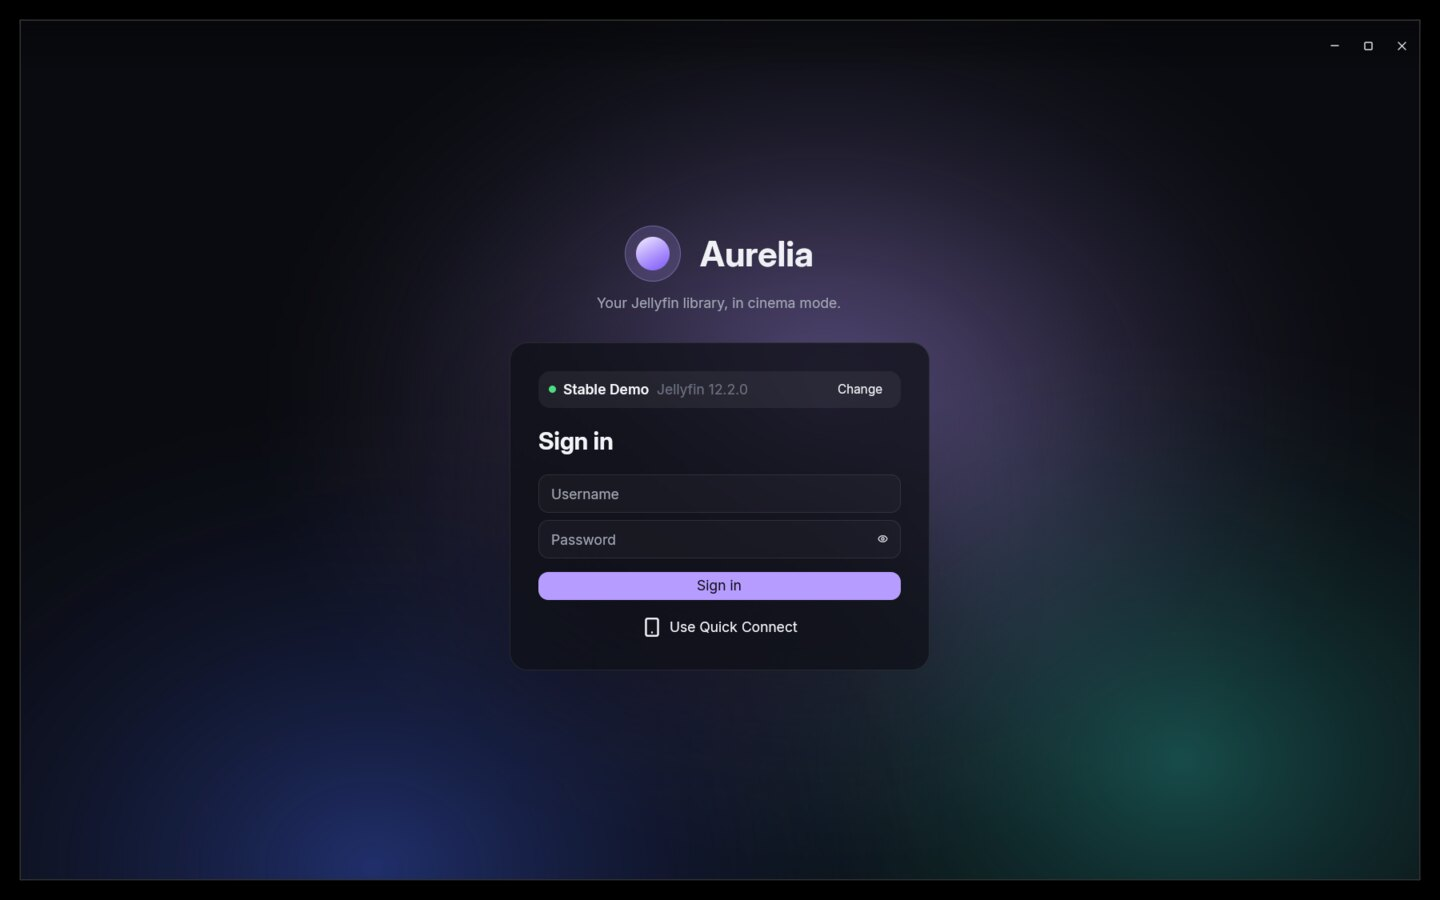
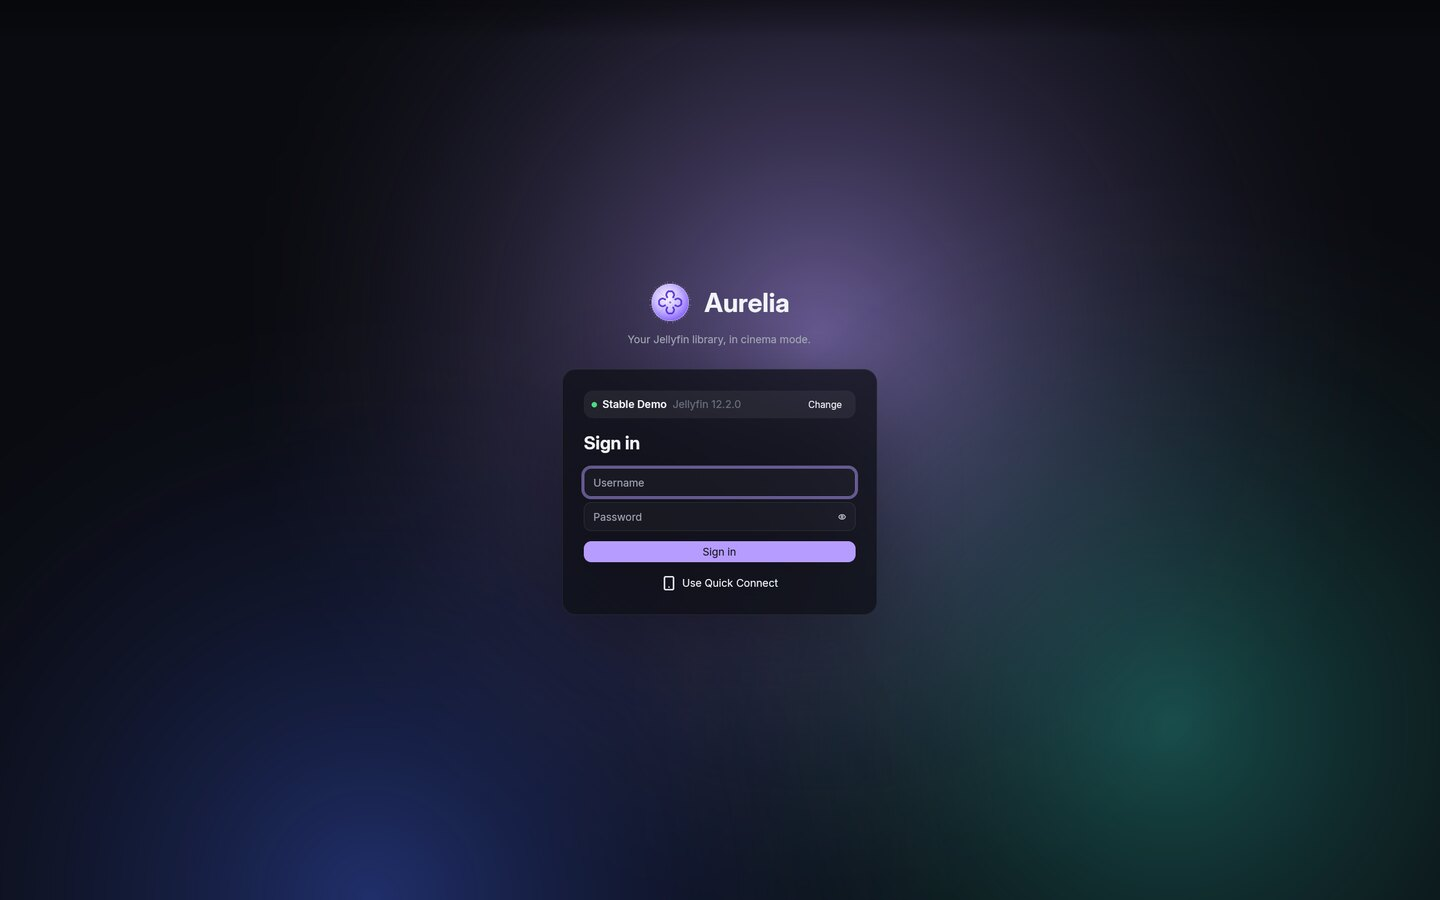
feat: refresh button, refresh on return; retake README screenshots
A ⟳ button in the nav bar refreshes the page (as do Ctrl+R and F5), and coming
back to the window after two minutes reloads what's on screen. Screenshots were
taken in a headless compositor against the public demo server.

Changed region(s): [[0.3438, 0.0, 0.75, 0.7467], [0.0, 0.4978, 1.0, 1.0]]

diff --git a/crates/aurelia/src/views/shell.rs b/crates/aurelia/src/views/shell.rs
@@ -1,6 +1,7 @@
 //! The signed-in window: floating navigation bar over the current page,
 //! history, keyboard shortcuts, and app-wide error handling.
 
+use gpui_kit::AnimationExt as _;
 use gpui_kit::component::button::{Button, ButtonVariants as _};
 use gpui_kit::component::menu::{DropdownMenu as _, PopupMenuItem};
 use gpui_kit::component::notification::Notification;
@@ -21,6 +22,13 @@ use crate::views::pages::Page;
 use gpui_kit::assets::IconName as icon;
 
 pub const NAV_HEIGHT: Pixels = px(64.);
+/// Coming back to the window after this long refreshes the page.
+const STALE_AFTER: std::time::Duration = std::time::Duration::from_secs(120);
+
+/// Whether data loaded at `last` is old enough to reload on return.
+fn is_stale(last: std::time::Instant, now: std::time::Instant) -> bool {
+    now.duration_since(last) >= STALE_AFTER
+}
 const CONTEXT: &str = "Shell";
 
 actions!(
@@ -138,6 +146,10 @@ fn dev_start_route() -> Option<Route> {
 pub struct Shell {
     nav: Nav<Page>,
     focus: FocusHandle,
+    /// Bumped on every refresh; keys the refresh icon's spin.
+    refreshes: usize,
+    last_refresh: std::time::Instant,
+    _activation: gpui_kit::Subscription,
 }
 
 impl EventEmitter<ShellEvent> for Shell {}
@@ -154,9 +166,19 @@ impl Shell {
         let home = Page::for_route(&Route::Home, window, cx);
         let focus = cx.focus_handle();
         window.focus(&focus, cx);
+        // Back at the window after a while: reload what's on screen so new
+        // additions and progress from other devices show up.
+        let activation = cx.observe_window_activation(window, |this, window, cx| {
+            if window.is_window_active() && is_stale(this.last_refresh, std::time::Instant::now()) {
+                this.refresh(&Refresh, window, cx);
+            }
+        });
         let mut this = Self {
             nav: Nav::new(Route::Home, home),
             focus,
+            refreshes: 0,
+            last_refresh: std::time::Instant::now(),
+            _activation: activation,
         };
         if let Some(route) = dev_start_route() {
             this.navigate(route, window, cx);
@@ -201,8 +223,43 @@ impl Shell {
     }
 
     fn refresh(&mut self, _: &Refresh, window: &mut Window, cx: &mut Context<Self>) {
+        self.refreshes += 1;
+        self.last_refresh = std::time::Instant::now();
         crate::images::ImageStore::retry_failed(cx);
         self.nav.page().clone().refresh(window, cx);
+        cx.notify();
+    }
+
+    fn render_refresh(&self, cx: &mut Context<Self>) -> impl IntoElement {
+        let glyph = gpui_kit::component::Icon::new(icon::RefreshCw)
+            .size_4()
+            .text_color(Palette::text_secondary());
+        let glyph = if self.refreshes > 0 {
+            glyph
+                .with_animation(
+                    ("refresh-spin", self.refreshes),
+                    gpui_kit::Animation::new(std::time::Duration::from_millis(650))
+                        .with_easing(gpui_kit::ease_in_out),
+                    |glyph, t| glyph.rotate(gpui_kit::percentage(t)),
+                )
+                .into_any_element()
+        } else {
+            glyph.into_any_element()
+        };
+        div()
+            .id("refresh")
+            .size_8()
+            .flex()
+            .items_center()
+            .justify_center()
+            .rounded_full()
+            .cursor_pointer()
+            .hover(|this| this.bg(Palette::glass_strong()))
+            .tooltip(|window, cx| {
+                gpui_kit::component::tooltip::Tooltip::new("Refresh (Ctrl+R)").build(window, cx)
+            })
+            .on_click(cx.listener(|this, _, window, cx| this.refresh(&Refresh, window, cx)))
+            .child(glyph)
     }
 
     fn render_tab(
@@ -327,36 +384,40 @@ impl Shell {
                                 .child(tabs),
                         )
                         .child(
-                            Button::new("account")
-                                .ghost()
-                                .small()
-                                .child(
-                                    div()
-                                        .size_7()
-                                        .rounded_full()
-                                        .flex()
-                                        .items_center()
-                                        .justify_center()
-                                        .bg(rgba(0xB69CFF40))
-                                        .text_color(Palette::text())
-                                        .font_weight(FontWeight::BOLD)
-                                        .text_sm()
-                                        .child(initial),
-                                )
-                                .dropdown_menu_with_anchor(
-                                    gpui_kit::Anchor::TopRight,
-                                    move |menu, _, _| {
-                                        menu.label(format!("{user} · {server}")).separator().item(
-                                            PopupMenuItem::new("Sign out")
-                                                .icon(icon::LogOut)
-                                                .on_click(|_, _, cx| {
-                                                    with_shell(cx, |_, cx| {
-                                                        cx.emit(ShellEvent::SignOut)
-                                                    })
-                                                }),
-                                        )
-                                    },
-                                ),
+                            h_flex().gap_2().child(self.render_refresh(cx)).child(
+                                Button::new("account")
+                                    .ghost()
+                                    .small()
+                                    .child(
+                                        div()
+                                            .size_7()
+                                            .rounded_full()
+                                            .flex()
+                                            .items_center()
+                                            .justify_center()
+                                            .bg(rgba(0xB69CFF40))
+                                            .text_color(Palette::text())
+                                            .font_weight(FontWeight::BOLD)
+                                            .text_sm()
+                                            .child(initial),
+                                    )
+                                    .dropdown_menu_with_anchor(
+                                        gpui_kit::Anchor::TopRight,
+                                        move |menu, _, _| {
+                                            menu.label(format!("{user} · {server}"))
+                                                .separator()
+                                                .item(
+                                                    PopupMenuItem::new("Sign out")
+                                                        .icon(icon::LogOut)
+                                                        .on_click(|_, _, cx| {
+                                                            with_shell(cx, |_, cx| {
+                                                                cx.emit(ShellEvent::SignOut)
+                                                            })
+                                                        }),
+                                                )
+                                        },
+                                    ),
+                            ),
                         ),
                 ),
             )
@@ -387,5 +448,20 @@ impl Render for Shell {
             )
             .child(div().size_full().child(self.nav.page().view()))
             .child(self.render_nav(window, cx))
+    }
+}
+
+#[cfg(test)]
+mod tests {
+    use std::time::{Duration, Instant};
+
+    use super::{STALE_AFTER, is_stale};
+
+    #[test]
+    fn data_goes_stale_after_two_minutes() {
+        let t0 = Instant::now();
+        assert!(!is_stale(t0, t0 + Duration::from_secs(30)));
+        assert!(!is_stale(t0, t0 + STALE_AFTER - Duration::from_millis(1)));
+        assert!(is_stale(t0, t0 + STALE_AFTER));
     }
 }

diff --git a/README.md b/README.md
@@ -63,7 +63,7 @@ Aurelia needs `mpv` on `PATH`, or set `AURELIA_MPV=/path/to/mpv`.
 | `←` / `→` | Previous / next slide on Home |
 | `Esc`, `Alt+←`, mouse back | Back |
 | `Alt+→`, mouse forward | Forward |
-| `Ctrl+R`, `F5` | Refresh |
+| `Ctrl+R`, `F5`, or the ⟳ button | Refresh (also automatic when you come back after a couple of minutes) |
 | `Ctrl+Q` | Quit |
 
 ## Architecture
@@ -95,4 +95,5 @@ These environment variables exist for screenshots and end-to-end testing:
 | `AURELIA_LOG=debug` | Logging filter (`tracing` syntax) |
 
 Use `XDG_CONFIG_HOME` and `XDG_CACHE_HOME` to keep a test session away from
-your real one.
+your real one. To take screenshots without touching your desktop, run Aurelia
+in a headless compositor, e.g. `WLR_BACKENDS=headless sway` with `grim`.
